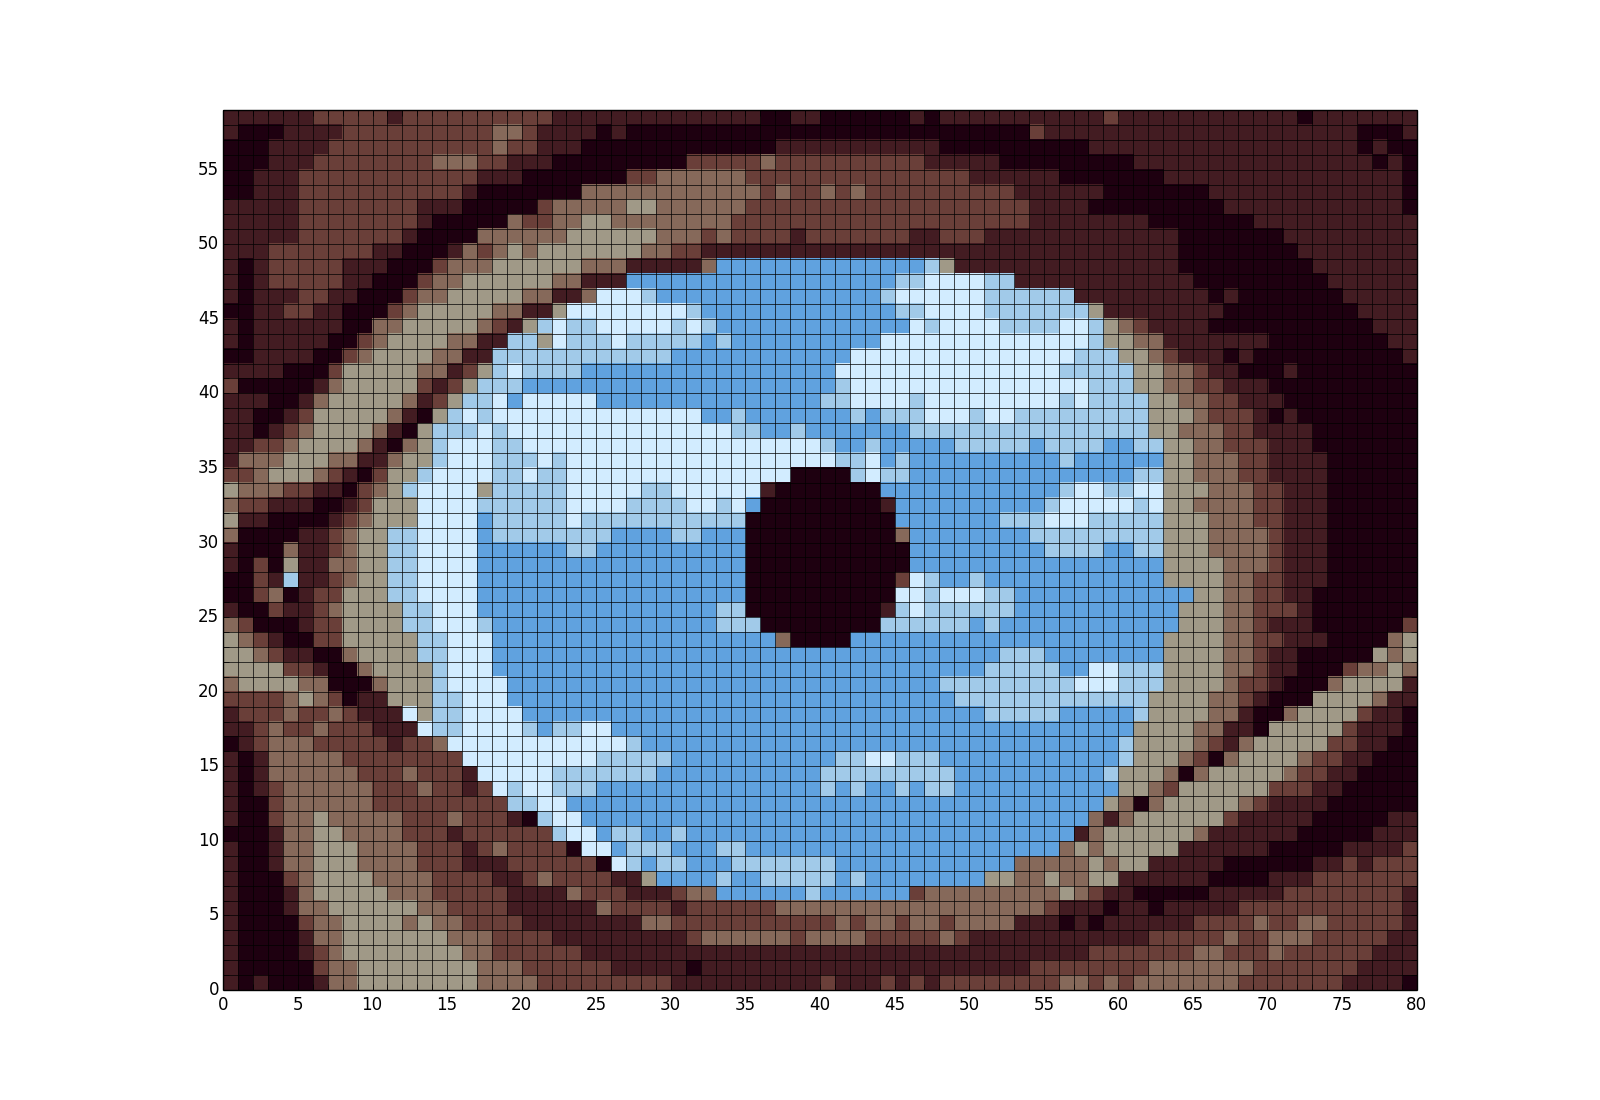
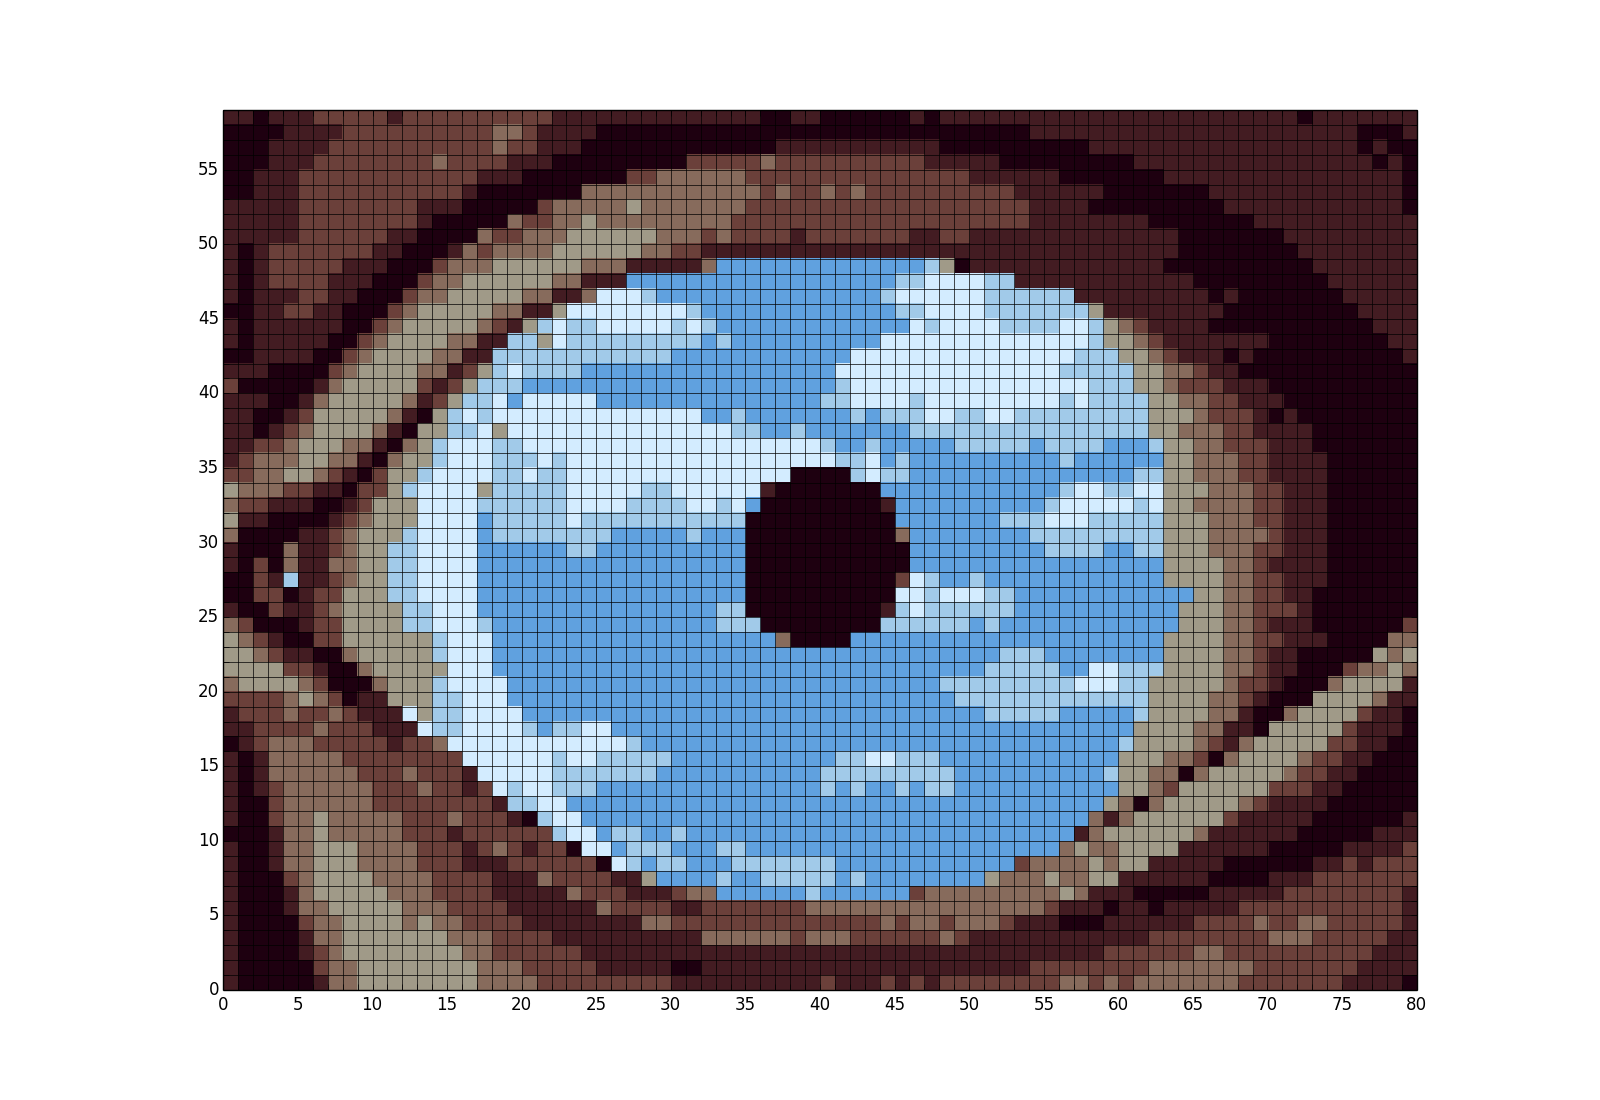
fix up

diff --git a/cross_stitchofy.py b/cross_stitchofy.py
@@ -12,7 +12,7 @@ import argparse
 def cluster_im(im,type_cluster, num_k):
 
     arr = np.array(im,dtype=float)/255.
-    print np.min(arr),np.max(arr)
+    # print np.min(arr),np.max(arr)
     if type_cluster[0]=='hsv':
         arr = matplotlib.colors.rgb_to_hsv(arr)
     
@@ -123,7 +123,7 @@ def main(args):
     parser = argparse.ArgumentParser(description='Make cross stitch pattern from image.')
     parser.add_argument('in_file', metavar='in_file', type=str, help='image to cross stitchofy')
     parser.add_argument('--type_cluster', metavar='type_cluster',default = 'rgb', type=str, help='clustering space. rgb or hsv')
-    parser.add_argument('--num_clusters', metavar='num_clusters',default = 5, type=int, help='number of colors')
+    parser.add_argument('--num_clusters', metavar='num_clusters',default = 8, type=int, help='number of colors')
     parser.add_argument('--big_side', metavar='big_side',default = 80, type=int, help='number of boxes on the bigger side')
 
     parser.add_argument('--grid_color', metavar='grid_color', type=str, default='k', help='color of grid lines. pick high contrast for ease')
